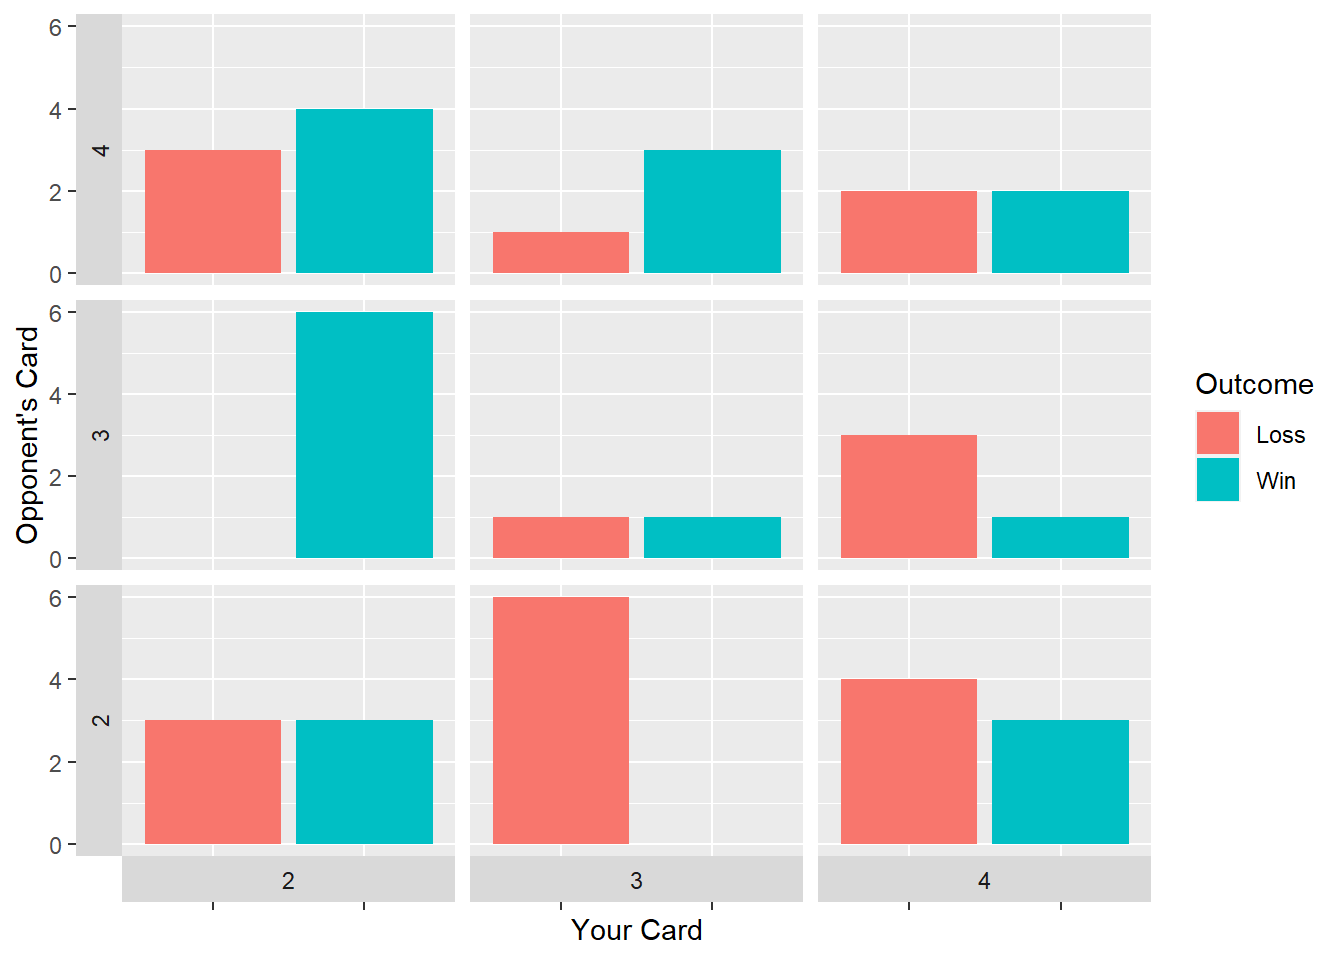
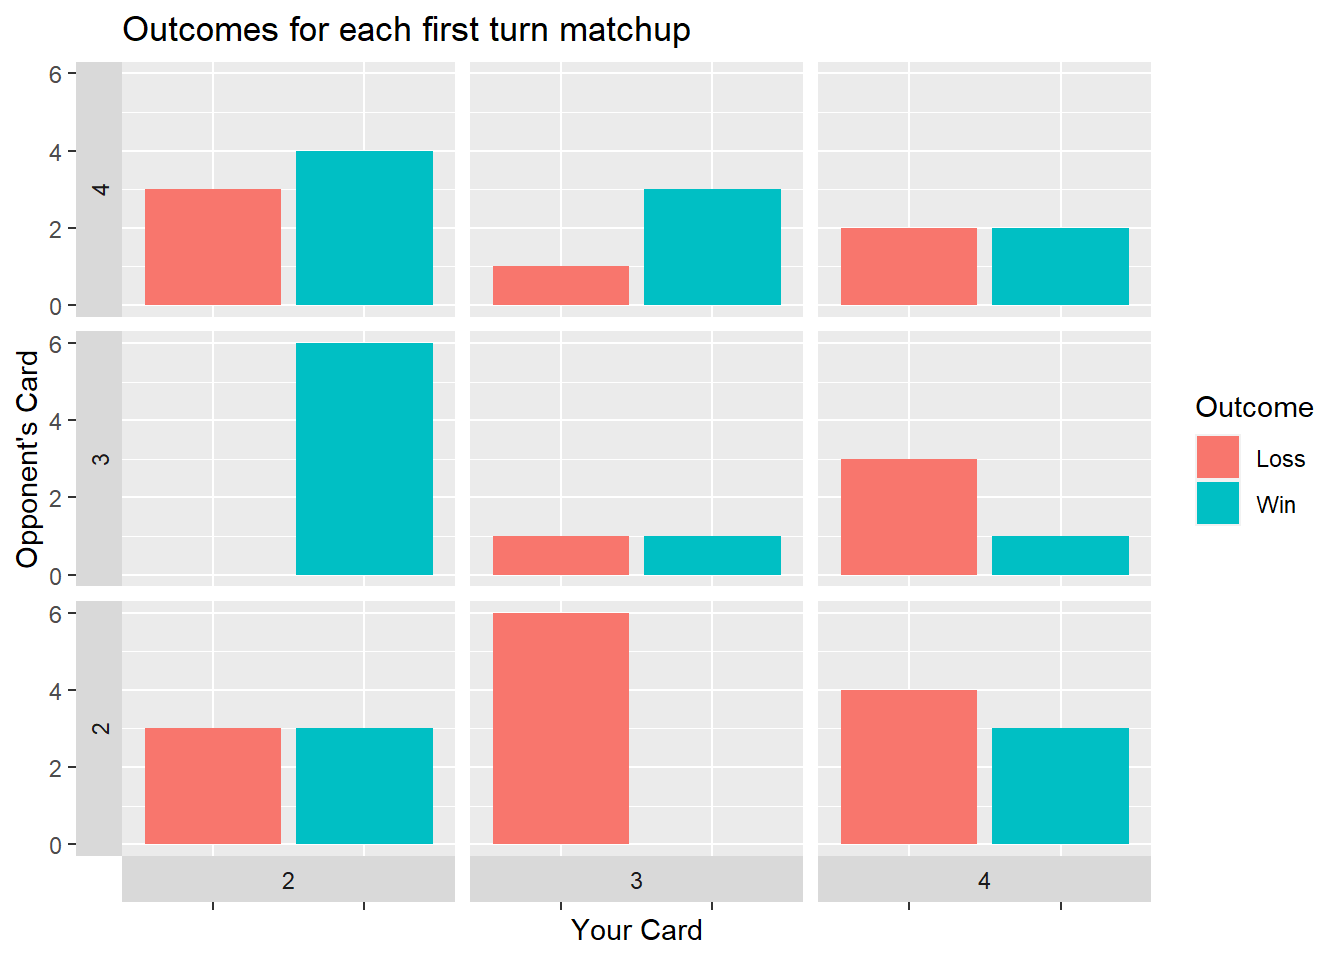
Added code folding.

diff --git a/content/post/2020-08-22-brave-rats-first-turn-analysis/index.en.html b/content/post/2020-08-22-brave-rats-first-turn-analysis/index.en.html
@@ -27,13 +27,53 @@ projects: []
 <h2>First turn analysis based on human data</h2>
 <p>Welcome to an analysis of Brave Rats statistics, with real data collected from real players. <a href="https://boardgamegeek.com/boardgame/112373/braverats">Brave Rats</a> is a micro card game (also known as R) designed by Seiji Kanai. This is the first in a series of posts about this game, as I seek to use traditional AI, deep learning, and more data to delve deeper into the strategy of this seemingly simple simultaneous move war game. If you’re not familiar with the game, I recommend this 5-minute <a href="https://www.youtube.com/watch?v=YDywt8eAGiU">video tutorial</a> to best be able to understand.</p>
 <p>As of writing this commentary, I have recorded 35 games, mostly but not always with myself as one of the players. After removing one tied game, this gives a total of 68 opening moves to analyze. The first turn, as in many games, is very important yet very abstract and hard to make concrete statements about as it is so far removed from the end state of the game. This analysis will attempt to provide some data-driven guidance to this stage of play.</p>
+<pre class="r"><code># Importing the data and mirroring it
+
+columnNames = c(&quot;Game #&quot;,&quot;Player 1&quot;,&quot;Player 2&quot;,&quot;P2 wins?&quot;,&quot;P1 Card 1&quot;,&quot;P2 Card 1&quot;,&quot;P1 Card 2&quot;,&quot;P2 Card 2&quot;,&quot;P1 Card 3&quot;,&quot;P2 Card 3&quot;,&quot;P1 Card 4&quot;,&quot;P2 Card 4&quot;,&quot;P1 Card 5&quot;,&quot;P2 Card 5&quot;,&quot;P1 Card 6&quot;,&quot;P2 Card 6&quot;,&quot;P1 Card 7&quot;,&quot;P2 Card 7&quot;,&quot;P1 Card 8&quot;,&quot;P2 Card 8&quot;) %&gt;% 
+  str_replace_all(&quot;[ #?]&quot;, &quot;&quot;)
+ratData &lt;- read_csv(&quot;Brave Rats Data - Record.csv&quot;, 
+                    skip_empty_rows = TRUE, 
+                    col_names = columnNames, 
+                    skip=1)%&gt;% 
+  select(P2wins, P1Card1, P2Card1)
+
+notFlipped &lt;- ratData %&gt;% 
+  mutate(P1Wins = abs(P2wins-1), P1Card = ratData$P1Card1, P2Card = ratData$P2Card1) %&gt;% select(P1Wins, P1Card, P2Card)
+
+flipped &lt;- ratData %&gt;% 
+  mutate(P1Wins = P2wins, P1Card = ratData$P2Card1, P2Card = ratData$P1Card1) %&gt;% select(P1Wins, P1Card, P2Card)
+
+fullSet &lt;- rbind(notFlipped, flipped) %&gt;% filter(P1Wins != 0.5) %&gt;% mutate(Outcome = ifelse(
+  P1Wins==1, &quot;Win&quot;, &quot;Loss&quot;
+))</code></pre>
 <p>First, and most basically, it’s important to know what cards people actually play to start. This information even on its own may be able to greatly inform starting decisions.</p>
-<p><img src="/post/2020-08-22-brave-rats-first-turn-analysis/index.en_files/figure-html/unnamed-chunk-3-1.png" width="672" /></p>
-<p>The clear trend is that only 3 cards, Spy(2), Assassin(3), and Ambassador(4) are by far the preferred starting cards. Spy(2) being the most common and Wizard(5) being somewhat popular are the main notes here.</p>
+<pre class="r"><code>fullSet %&gt;% 
+  ggplot(aes(x=P1Card %&gt;% as_factor())) +
+  geom_histogram(stat=&quot;count&quot;) +
+  xlab(&quot;Card&quot;) +
+  ggtitle(&quot;Overall first-turn use by card&quot;)</code></pre>
+<p><img src="/post/2020-08-22-brave-rats-first-turn-analysis/index.en_files/figure-html/unnamed-chunk-2-1.png" width="672" /></p>
+<p>The clear trend is that only 3 cards, Spy(2), Assassin(3), and Ambassador(4) are by far the preferred starting cards. Spy(2) being the most common and Wizard(5) being somewhat popular are the main notes here. Note that I’m listing the cards by number instead of their names as it’s easier to</p>
 <p>Now, let’s take a look at each card’s win rate.</p>
-<p><img src="/post/2020-08-22-brave-rats-first-turn-analysis/index.en_files/figure-html/unnamed-chunk-5-1.png" width="672" /></p>
+<pre class="r"><code>fullSet %&gt;% 
+  ggplot(aes(x=P1Card %&gt;% as_factor(), fill=Outcome)) +
+  geom_histogram(position=&quot;fill&quot;, stat=&quot;count&quot;) +
+  xlab(&quot;Card&quot;) +
+  ylab(&quot;Win Rate&quot;) +
+  ggtitle(&quot;Win rates by card&quot;)</code></pre>
+<p><img src="/post/2020-08-22-brave-rats-first-turn-analysis/index.en_files/figure-html/unnamed-chunk-4-1.png" width="672" /></p>
 <p>Other than the single instance in which Princess(1) was played, Spy(2) comes out on top as the only card above the 50% line, at a whopping 73% win rate. The Wizard(5) ended up nearly as well as the Assassin(3) and Ambassador(4), with a 40% win rate. This could spark interest in using them more often, but for the rest of this inquiry, because of their small sample size, all games where non-standard (2,3,4) cards were played will be excluded.</p>
-<p><img src="/post/2020-08-22-brave-rats-first-turn-analysis/index.en_files/figure-html/unnamed-chunk-7-1.png" width="672" /></p>
+<pre class="r"><code>fullSet %&gt;% 
+  filter(P1Card %in% c(2,3,4) &amp; P2Card %in% c(2,3,4)) %&gt;% 
+  mutate(P2Card=factor(P2Card, levels=c(&quot;4&quot;,&quot;3&quot;,&quot;2&quot;))) %&gt;% 
+  ggplot(aes(x=Outcome, fill=Outcome)) +
+  geom_bar(aes(stat=&quot;count&quot;)) +
+  facet_grid(vars(P2Card), vars(P1Card), switch=&quot;both&quot;) +
+  ylab(&quot;Opponent&#39;s Card&quot;) +
+  xlab(&quot;Your Card&quot;)+
+  theme(axis.text.x = element_blank()) +
+  ggtitle(&quot;Outcomes for each first turn matchup&quot;)</code></pre>
+<p><img src="/post/2020-08-22-brave-rats-first-turn-analysis/index.en_files/figure-html/unnamed-chunk-5-1.png" width="672" /></p>
 <p>This last graph may be somewhat jarring, so I’ll explain how to read it. On the X is what card you picked, and on the Y is the card your opponent picked. At each intersection is a small plot, showing the history of wins and losses in games that started that way. Immediately apparent is one of the major reasons why the Spy(2) has been so successful. In games against Assassin(3), the Spy(2) player has won 6 out of 6 times. Also surprisingly, even in what seems to be an extremely favorable situation of playing Ambassador(4) against Spy(2), thereby gaining 2 victories, the Spy player has actually won 4 out of the 7 games.</p>
 <p>Further analysis such as a recommended distribution of cards to play based on matchup win rates would be possible but because Spy(2) has favorable matchups in every case, the current analysis of the first turn must end here.</p>
 <p>Of course, with sample sizes this small after dividing up every common matchup, nothing is proven. Assassin(3) obviously won’t win against Spy(2) 100% of the time, and it’s entirely likely that other matchups such as Ambassador(4) vs. Spy(2) are truly favorable to the Ambassador player. Nevertheless, I hope this can inform better strategies to test these conclusions in the field of battle.</p>

diff --git a/layouts/partials/page_header.html b/layouts/partials/page_header.html
@@ -1,0 +1,97 @@
+{{ $page := . }}
+{{ $featured := (.Resources.ByType "image").GetMatch "*featured*" }}
+{{ $anchor := $page.Params.image.focal_point | default "Smart" }}
+
+{{/* Set default titles for node pages */}}
+{{ $title := .Title }}
+{{ if and (not $title) .IsNode }}
+  {{ if eq .Type "post" }}
+    {{ $title = i18n "posts" }}
+  {{ else if eq .Type "talk" }}
+    {{ $title = i18n "talks" }}
+  {{ else if eq .Type "publication" }}
+    {{ $title = i18n "publications" }}
+  {{end}}
+{{end}}
+
+{{/* Header image */}}
+{{ if and .Params.header.image (not (and $featured (not .Params.image.preview_only))) }}
+<div class="article-header">
+  {{ $img_src := urls.Parse .Params.header.image }}
+  {{ if $img_src.Scheme }}
+  <img src="{{ .Params.header.image }}" class="article-banner" alt="">
+  {{ else }}
+  {{ $media_dir := $.Scratch.Get "media_dir" }}
+  <img src="{{ (printf "/%s/%s" $media_dir .Params.header.image) | relURL }}" class="article-banner" alt="">
+  {{ end }}
+
+  {{ with .Params.header.caption }}<span class="article-header-caption">{{ . | markdownify | emojify }}</span>{{ end }}
+</div>
+{{end}}
+
+{{/* Featured image layout */}}
+{{ if and $featured (not .Params.image.preview_only) }}
+
+{{/* Fit image within max size. */}}
+{{ $image := $featured }}
+
+{{/* Determine image placement. */}}
+{{ $placement := .Params.image.placement | default 1 }}{{/* Default to full column width. */}}
+{{ $image_container := "" }}
+{{ if eq $placement 2}}
+  {{ $image_container = "container" }}
+  {{ if gt $featured.Width 1200 }}
+    {{ $image = $featured.Resize "1200x" }}
+  {{ end }}
+{{else if eq $placement 3}}
+  {{ $image_container = "container-fluid" }}
+  {{ $image := $featured.Fit "2560x2560" }}
+{{else}}
+  {{ $image_container = "article-container" }}
+  {{ if gt $featured.Width 720 }}
+    {{ $image = $featured.Resize "720x" }}
+  {{ end }}
+{{end}}
+
+<div class="article-container pt-3">
+  <h1>{{ $title }}</h1>
+
+  {{ with $page.Params.subtitle }}
+  <p class="page-subtitle">{{ . | markdownify | emojify }}</p>
+  {{end}}
+
+  {{ partial "header_maincodefolding" . }}
+
+  {{ partial "page_metadata" (dict "page" $page "is_list" 0 "share" true) }}
+  {{ partial "page_links_div.html" $page }}
+</div>
+
+{{/* Featured image */}}
+<div class="article-header {{$image_container}} featured-image-wrapper mt-4 mb-4" style="max-width: {{$image.Width}}px; max-height: {{$image.Height}}px;">
+  <div style="position: relative">
+    <img src="{{ $image.RelPermalink }}" alt="{{ with $.Params.image.alt_text }}{{.}}{{ end }}" class="featured-image">
+    {{ with $.Params.image.caption }}<span class="article-header-caption">{{ . | markdownify | emojify }}</span>{{ end }}
+  </div>
+</div>
+{{else}}
+  {{/* Case when page has no image */}}
+
+  {{/* Wider container for nodes */}}
+  {{ $ctnr := "article-container" }}
+  {{ if $page.IsNode }}
+    {{ $ctnr = "universal-wrapper" }}
+  {{end}}
+<div class="{{$ctnr}} pt-3">
+  <h1>{{ $title }}</h1>
+
+  {{ with $page.Params.subtitle }}
+  <p class="page-subtitle">{{ . | markdownify | emojify }}</p>
+  {{end}}
+
+  {{ if not .IsNode }}
+    {{ partial "header_maincodefolding" . }}
+    {{ partial "page_metadata" (dict "page" $page "is_list" 0 "share" true) }}
+    {{ partial "page_links_div.html" $page }}
+  {{end}}
+</div>
+{{end}}

diff --git a/static/js/codefolding.js b/static/js/codefolding.js
@@ -1,0 +1,62 @@
+window.initializeCodeFolding = function(show) {
+
+  // handlers for show-all and hide all
+  $("#rmd-show-all-code").click(function() {
+    $('div.r-code-collapse').each(function() {
+      $(this).collapse('show');
+    });
+  });
+  $("#rmd-hide-all-code").click(function() {
+    $('div.r-code-collapse').each(function() {
+      $(this).collapse('hide');
+    });
+  });
+
+  // index for unique code element ids
+  var currentIndex = 1;
+
+  // select all R code blocks
+  var rCodeBlocks = $('pre.sourceCode, pre.r, pre.python, pre.bash, pre.sql, pre.cpp, pre.stan, pre.js');
+  rCodeBlocks.each(function() {
+
+    // create a collapsable div to wrap the code in
+    var div = $('<div class="collapse r-code-collapse"></div>');
+    if (show) {
+      $('div.r-code-collapse').each(function() {
+        $(this).collapse('show');
+      });
+    }
+
+    var id = 'rcode-643E0F36' + currentIndex++;
+    div.attr('id', id);
+    $(this).before(div);
+    $(this).detach().appendTo(div);
+
+    // add a show code button right above
+    var showCodeText = $('<span>' + (show ? 'Hide' : 'Code') + '</span>');
+    var showCodeButton = $('<button type="button" class="btn btn-light btn-sm code-folding-btn pull-right"></button>');
+    showCodeButton.append(showCodeText);
+    showCodeButton
+        .attr('data-toggle', 'collapse')
+        .attr('data-target', '#' + id)
+        .attr('aria-expanded', show)
+        .attr('aria-controls', id);
+
+    var buttonRow = $('<div class="row"></div>');
+    var buttonCol = $('<div class="col-md-12"></div>');
+
+    buttonCol.append(showCodeButton);
+    buttonRow.append(buttonCol);
+
+    div.before(buttonRow);
+
+    // update state of button on show/hide
+    div.on('hidden.bs.collapse', function () {
+      showCodeText.text('Code');
+    });
+    div.on('show.bs.collapse', function () {
+      showCodeText.text('Hide');
+    });
+  });
+
+}

diff --git a/layouts/partials/site_footer.html b/layouts/partials/site_footer.html
@@ -1,0 +1,40 @@
+<footer class="site-footer">
+  {{ if or (site.GetPage "terms.md") (site.GetPage "privacy.md") }}
+  <p class="powered-by">
+    {{ with site.GetPage "privacy.md" }}
+      {{ printf "<a href=\"%s\">%s</a>" .RelPermalink .Title | safeHTML }}
+    {{ end }}
+    {{ with site.GetPage "terms.md" }}
+      {{ if site.GetPage "privacy.md" }} &middot; {{ end }}
+      {{ printf "<a href=\"%s\">%s</a>" .RelPermalink .Title | safeHTML }}
+    {{ end }}
+  </p>
+  {{ end }}
+  
+  <!-- Init code folding -->
+  {{ partial "article_footer_js.html" . }}
+
+  <p class="powered-by">
+    {{ with site.Copyright }}{{ replace . "{year}" now.Year | markdownify}}{{ end }}
+  </p>
+
+  {{/* Display copyright license. */}}
+  {{ partial "site_footer_license" . }}
+
+  <p class="powered-by">
+    {{ if not site.Params.i_am_a_sponsor }}
+    Published with
+    <a href="https://sourcethemes.com/academic/" target="_blank" rel="noopener">Academic Website Builder</a>
+    {{ end }}
+
+    {{ if not (in (slice "book" "docs" "updates") .Type) }}
+    <span class="float-right" aria-hidden="true">
+      <a href="#" class="back-to-top">
+        <span class="button_icon">
+          <i class="fas fa-chevron-up fa-2x"></i>
+        </span>
+      </a>
+    </span>
+    {{ end }}
+  </p>
+</footer>

diff --git a/layouts/partials/header_maincodefolding.html b/layouts/partials/header_maincodefolding.html
@@ -1,0 +1,14 @@
+{{ if and (not site.Params.disable_codefolding) (not .Params.disable_codefolding) (not site.Params.codefolding_nobutton) (not .Params.codefolding_nobutton) (in (string .Content) "</pre>") }}
+
+<div id="code-folding-buttons" class="dropdown btn-group pull-right">
+  <a class="btn btn-light btn-sm dropdown-toggle" href="#" role="button" id="allCodeToggleButton"
+     data-toggle="dropdown" aria-haspopup="true" aria-expanded="false">
+    Code
+  </a>
+  <div class="dropdown-menu" aria-labelledby="allCodeToggleButton">
+    <a id="rmd-show-all-code" class="dropdown-item small" href="#">Show all</a>
+    <a id="rmd-hide-all-code" class="dropdown-item small" href="#">Hide all</a>
+  </div>
+</div>
+
+{{ end }}

diff --git a/static/css/codefolding.css b/static/css/codefolding.css
@@ -1,0 +1,27 @@
+
+/* Code folding */
+
+/* Each code block button */
+.code-folding-btn { 
+    margin-bottom: 4px; 
+	float: right;
+}
+.row { 
+    display: flex;
+    border-bottom: solid 1px #d7d7d7;
+}
+.col-md-12 {
+    margin: 0 0 0 auto;
+}
+
+/* Main show/hide button */
+#code-folding-buttons {float: right;}
+
+#code-folding-buttons .dropdown-menu {
+    min-width: 80px;
+    padding: 5px 0;
+    margin: 2px 0 0;
+    font-size: 14px;
+}
+
+/* End code folding */

diff --git a/layouts/partials/article_footer_js.html b/layouts/partials/article_footer_js.html
@@ -1,0 +1,8 @@
+{{ if and (not site.Params.disable_codefolding) (not .Params.disable_codefolding) (in (string .Content) "</pre>") }} 
+  <script>
+  $(document).ready(function () {
+    window.initializeCodeFolding("show" === {{ if isset .Params "codefolding_show" }}{{ .Params.codefolding_show }}{{ else }}{{ default ("hide") site.Params.codefolding_show }}{{ end }});
+  });
+  </script>
+  <script src="{{ "js/codefolding.js" | relURL }}"></script>
+{{ end }}

diff --git a/layouts/partials/head_custom.html b/layouts/partials/head_custom.html
@@ -1,0 +1,4 @@
+{{ if not site.Params.disable_codefolding }}
+  <script src="https://cdn.jsdelivr.net/npm/popper.js@1.16.0/dist/umd/popper.min.js"></script>
+  <link rel="stylesheet" href="{{ "css/codefolding.css" | relURL }}" />
+{{ end }}
